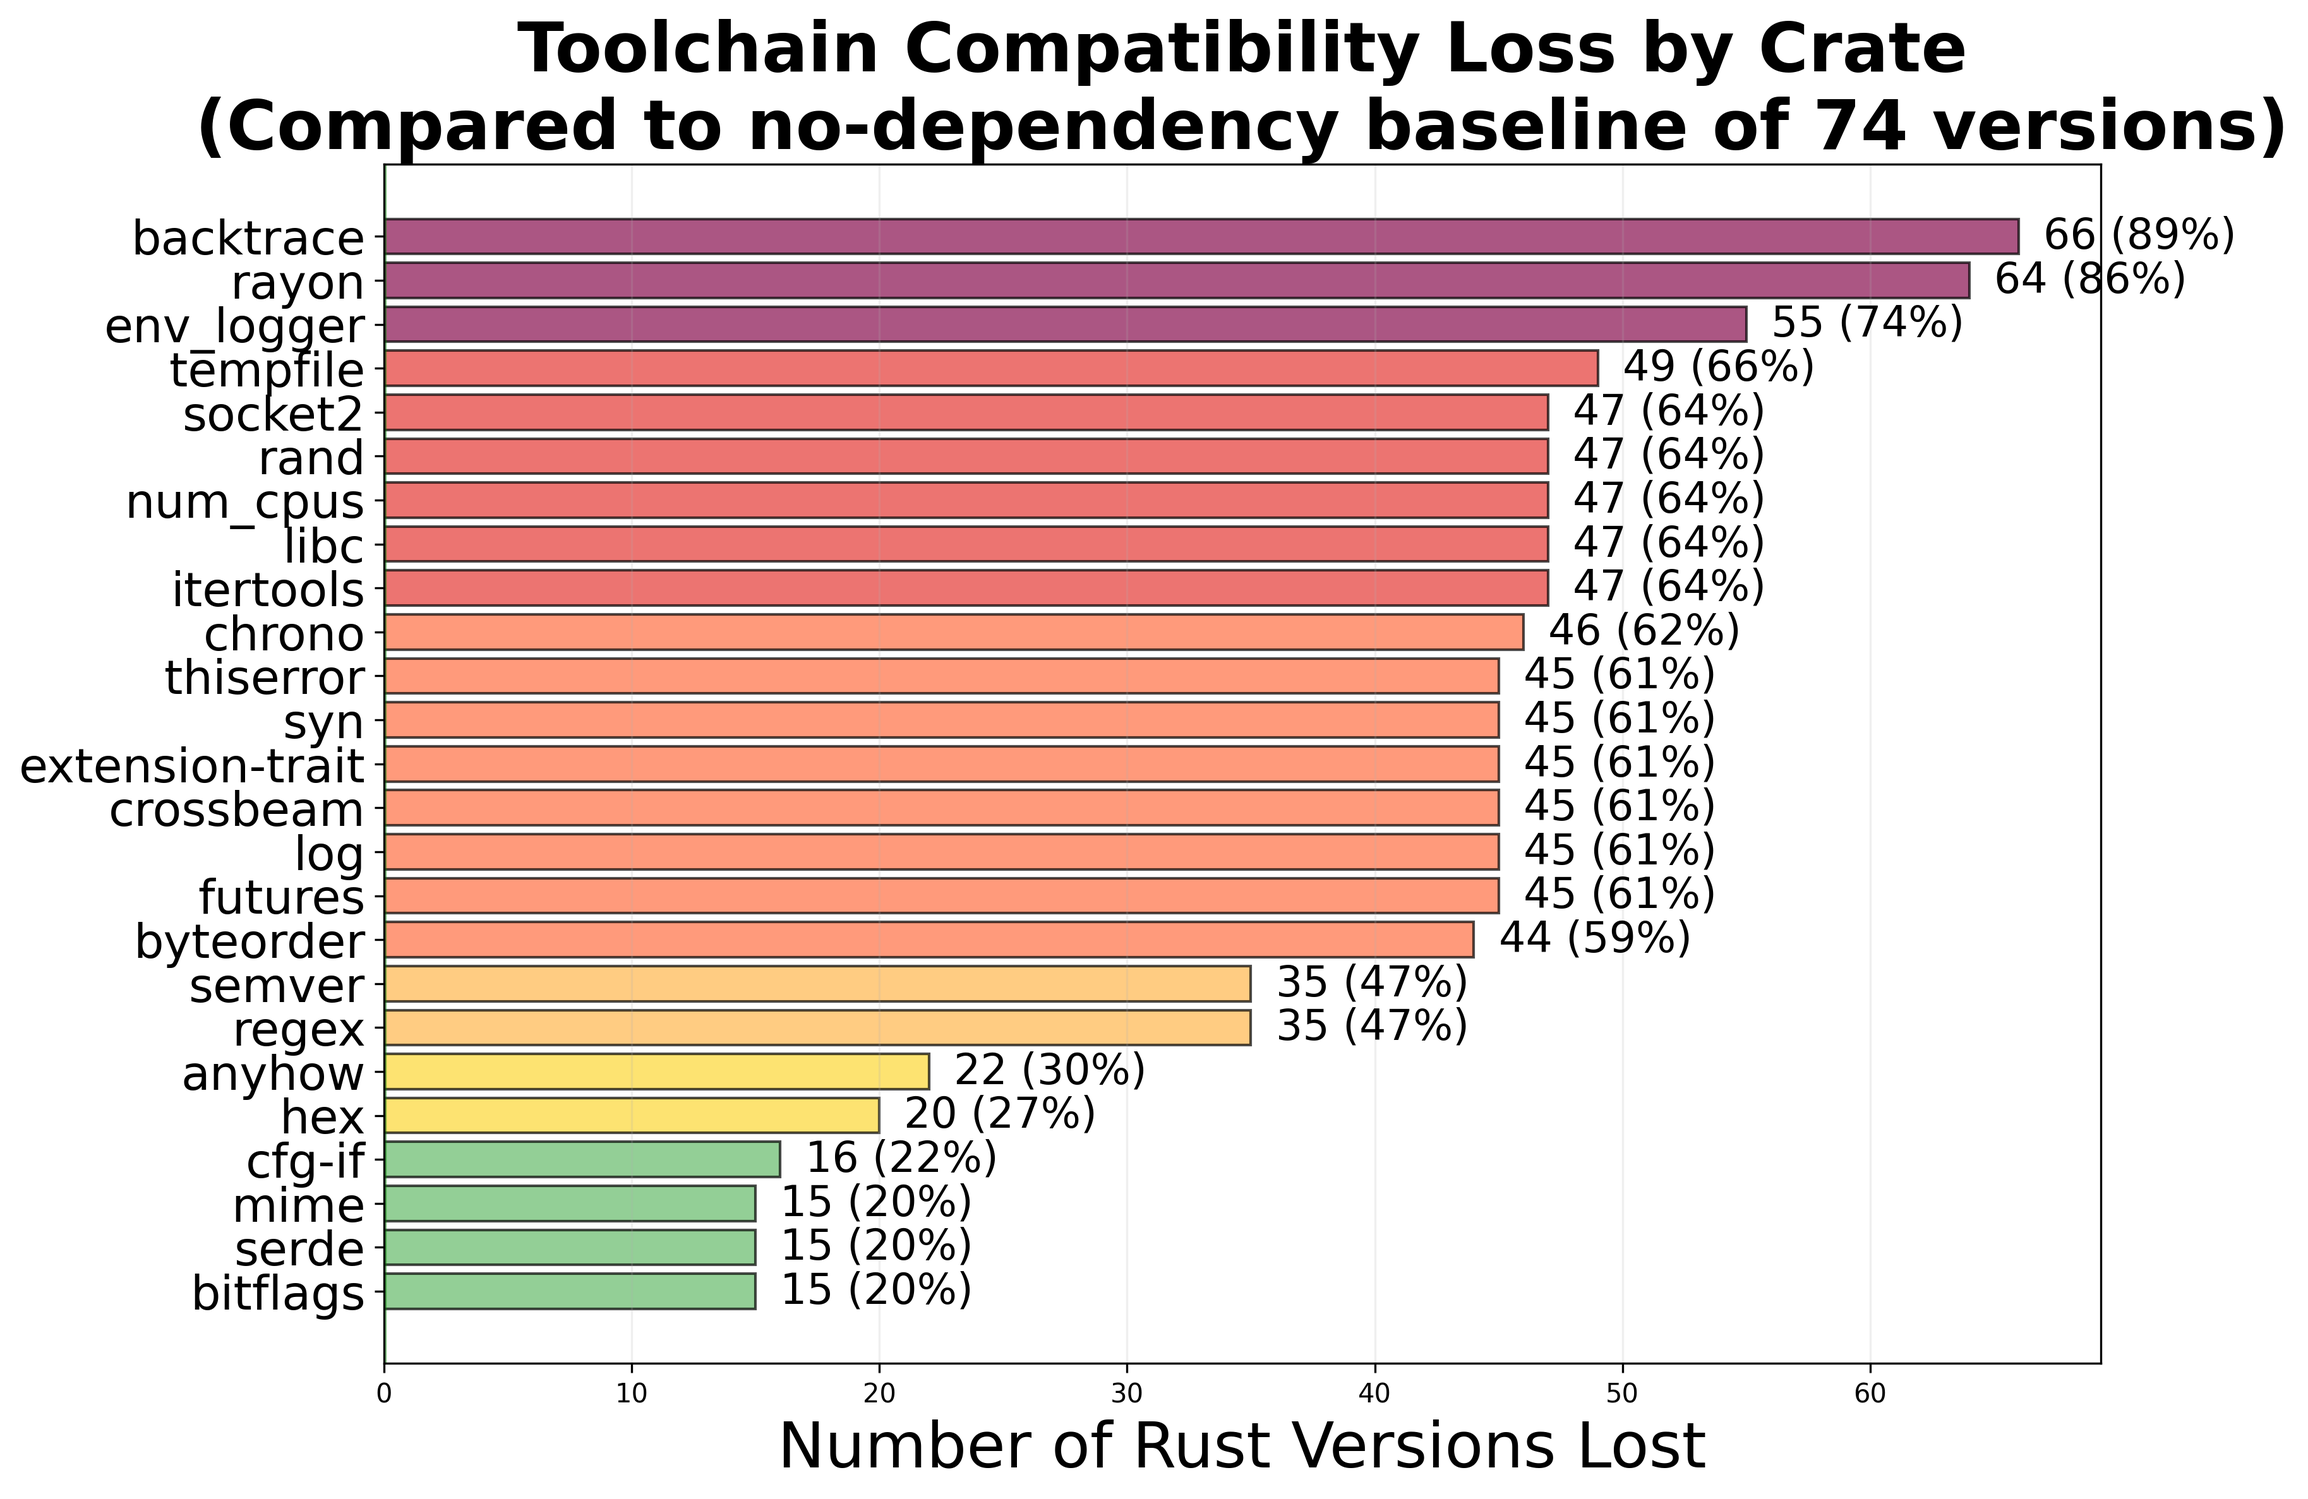
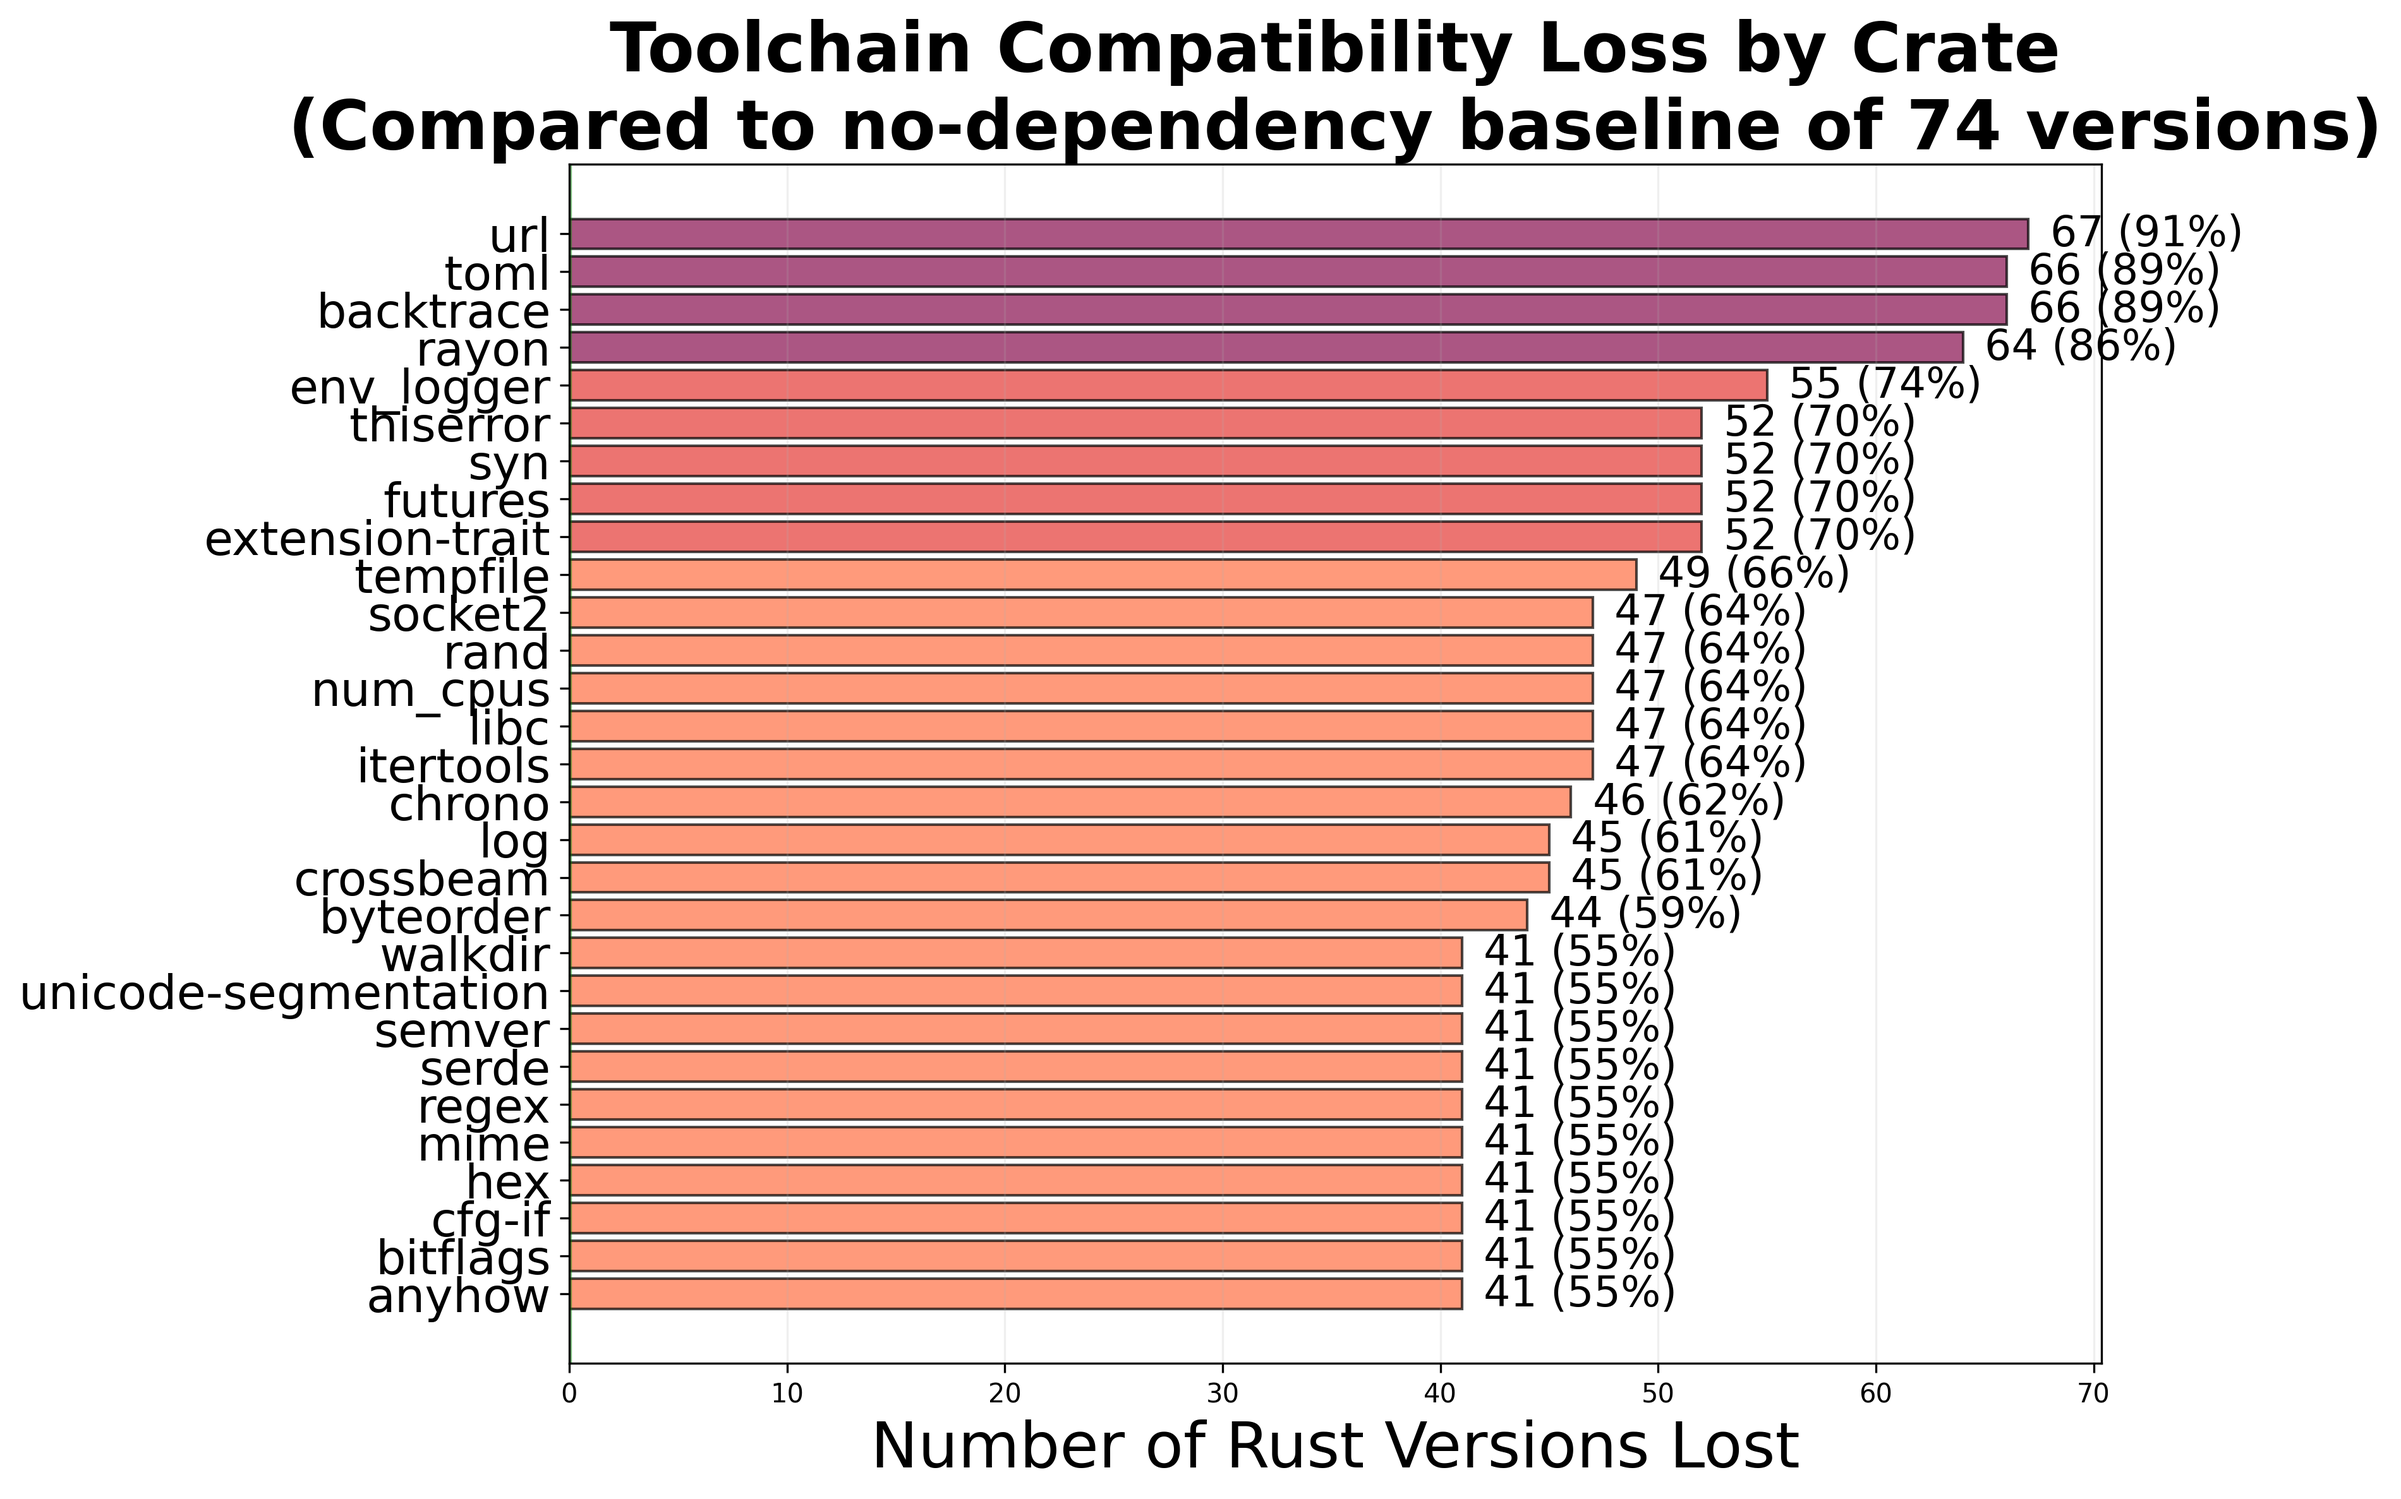
vis

diff --git a/visualize-rust.py b/visualize-rust.py
@@ -13,6 +13,7 @@ import matplotlib.pyplot as plt
 import matplotlib.patches as mpatches
 from datetime import datetime
 import numpy as np
+import json
 import sys
 
 # Check if we should show the plot window
@@ -21,39 +22,79 @@ show_plot = '--show' in sys.argv
 # Font scale factor: 2x for windowed display, 1x for PNG export
 fs = 2.0 if show_plot else 1.0
 
-# Data from experiment results
-crates_data = [
-    ("CONTROL", "1.16.0", "2017-03-16", 0, "baseline"),
-    ("bitflags", "1.31.1", "2018-12-20", 15, "minimal"),
-    ("serde", "1.31.1", "2018-12-20", 15, "minimal"),
-    ("mime", "1.31.1", "2018-12-20", 15, "minimal"),
-    ("cfg-if", "1.32.0", "2019-01-17", 16, "minimal"),
-    ("hex", "1.36.0", "2019-07-04", 20, "low"),
-    ("anyhow", "1.38.0", "2019-09-26", 22, "low"),
-    ("regex", "1.51.0", "2021-03-25", 35, "moderate"),
-    ("semver", "1.51.0", "2021-03-25", 35, "moderate"),
-    ("byteorder", "1.60.0", "2022-04-07", 44, "high"),
-    ("futures", "1.61.0", "2022-05-19", 45, "high"),
-    ("log", "1.61.0", "2022-05-19", 45, "high"),
-    ("crossbeam", "1.61.0", "2022-05-19", 45, "high"),
-    ("extension-trait", "1.61.0", "2022-05-19", 45, "high"),
-    ("syn", "1.61.0", "2022-05-19", 45, "high"),
-    ("thiserror", "1.61.0", "2022-05-19", 45, "high"),
-    ("chrono", "1.62.1", "2022-07-19", 46, "high"),
-    ("itertools", "1.63.0", "2022-08-11", 47, "severe"),
-    ("libc", "1.63.0", "2022-08-11", 47, "severe"),
-    ("num_cpus", "1.63.0", "2022-08-11", 47, "severe"),
-    ("rand", "1.63.0", "2022-08-11", 47, "severe"),
-    ("socket2", "1.63.0", "2022-08-11", 47, "severe"),
-    ("tempfile", "1.65.0", "2022-11-03", 49, "severe"),
-    ("env_logger", "1.71.1", "2023-08-03", 55, "extreme"),
-    ("rayon", "1.80.1", "2024-08-08", 64, "extreme"),
-    ("backtrace", "1.82.0", "2024-10-17", 66, "extreme"),
-]
+# Load results
+with open('rust/results.json', 'r') as f:
+    results = json.load(f)
 
-# Timeline boundaries
-baseline_date = datetime.strptime("2017-03-16", "%Y-%m-%d")
-latest_date = datetime.strptime("2024-12-01", "%Y-%m-%d")  # Approximate "now"
+# Rust version release dates (mapping version to date and index).
+rust_versions = {
+    '1.0.0': ('2015-05-15', 0),
+    '1.16.0': ('2017-03-16', 16),
+    '1.31.1': ('2018-12-20', 31),
+    '1.32.0': ('2019-01-17', 32),
+    '1.36.0': ('2019-07-04', 36),
+    '1.38.0': ('2019-09-26', 38),
+    '1.51.0': ('2021-03-25', 51),
+    '1.57.0': ('2021-12-02', 57),
+    '1.60.0': ('2022-04-07', 60),
+    '1.61.0': ('2022-05-19', 61),
+    '1.62.1': ('2022-07-19', 62),
+    '1.63.0': ('2022-08-11', 63),
+    '1.65.0': ('2022-11-03', 65),
+    '1.68.2': ('2023-03-28', 68),
+    '1.71.1': ('2023-08-03', 71),
+    '1.80.1': ('2024-08-08', 80),
+    '1.82.0': ('2024-10-17', 82),
+    '1.83.0': ('2024-11-28', 83),
+    '1.90.0': ('2024-12-01', 90),
+}
+
+# Baseline.
+baseline_version = '1.16.0'
+baseline_date = datetime.strptime(rust_versions[baseline_version][0], '%Y-%m-%d')
+latest_date = datetime.strptime(rust_versions['1.90.0'][0], '%Y-%m-%d')
+
+# Process data.
+crates_data = []
+for crate in results:
+    if crate['crate_name'] == 'CONTROL':
+        continue
+
+    oldest = crate['oldest_compatible']
+    if oldest is None:
+        # Crate doesn't work with any tested version.
+        continue
+
+    crate_date = datetime.strptime(rust_versions[oldest][0], '%Y-%m-%d')
+    versions_lost = rust_versions[oldest][1] - rust_versions[baseline_version][1]
+
+    # Categorize impact.
+    if versions_lost <= 5:
+        impact = 'minimal'
+    elif versions_lost <= 25:
+        impact = 'low'
+    elif versions_lost <= 40:
+        impact = 'moderate'
+    elif versions_lost <= 50:
+        impact = 'high'
+    elif versions_lost <= 60:
+        impact = 'severe'
+    else:
+        impact = 'extreme'
+
+    crates_data.append((
+        crate['crate_name'],
+        oldest,
+        rust_versions[oldest][0],
+        versions_lost,
+        impact
+    ))
+
+# Sort by versions lost.
+crates_data.sort(key=lambda x: x[3])
+
+# Calculate total versions in baseline range.
+baseline_total = rust_versions['1.90.0'][1] - rust_versions[baseline_version][1]
 
 # Color scheme based on impact
 color_map = {
@@ -99,7 +140,7 @@ for crate_name, rust_version, date_str, versions_lost, impact in crates_data:
 total_days = (latest_date - baseline_date).days
 ax1.set_xlim(0, total_days)
 ax1.set_ylim(-0.5, len(crates_data) - 0.5)
-ax1.set_xlabel('Time →', fontsize=int(12*fs))
+ax1.set_xlabel('Time', fontsize=int(12*fs))
 ax1.set_yticks([])
 
 # Add year markers
@@ -148,13 +189,12 @@ for bar, count in zip(bars, counts):
 
 # Create legend for impact levels
 legend_elements = [
-    mpatches.Patch(color=color_map["baseline"], label='Baseline (0% loss)', alpha=0.7),
-    mpatches.Patch(color=color_map["minimal"], label='Minimal (15-20% loss)', alpha=0.7),
-    mpatches.Patch(color=color_map["low"], label='Low (20-30% loss)', alpha=0.7),
-    mpatches.Patch(color=color_map["moderate"], label='Moderate (35-47% loss)', alpha=0.7),
-    mpatches.Patch(color=color_map["high"], label='High (44-62% loss)', alpha=0.7),
-    mpatches.Patch(color=color_map["severe"], label='Severe (47-66% loss)', alpha=0.7),
-    mpatches.Patch(color=color_map["extreme"], label='Extreme (74-89% loss)', alpha=0.7),
+    mpatches.Patch(color=color_map["minimal"], label='Minimal (<=5 versions lost)', alpha=0.7),
+    mpatches.Patch(color=color_map["low"], label='Low (6-25 versions lost)', alpha=0.7),
+    mpatches.Patch(color=color_map["moderate"], label='Moderate (26-40 versions lost)', alpha=0.7),
+    mpatches.Patch(color=color_map["high"], label='High (41-50 versions lost)', alpha=0.7),
+    mpatches.Patch(color=color_map["severe"], label='Severe (51-60 versions lost)', alpha=0.7),
+    mpatches.Patch(color=color_map["extreme"], label='Extreme (>60 versions lost)', alpha=0.7),
 ]
 ax1.legend(handles=legend_elements, loc='upper left', fontsize=int(8*fs), title='Impact Severity')
 
@@ -165,11 +205,10 @@ print("Visualization saved to compatibility-timeline-rust.png")
 # Create a second visualization: Lost versions chart
 fig2, ax = plt.subplots(figsize=(12, 8))
 
-# Sort by versions lost
-sorted_data = sorted(crates_data[1:], key=lambda x: x[3])  # Skip baseline
-crate_names = [d[0] for d in sorted_data]
-versions_lost = [d[3] for d in sorted_data]
-impacts = [d[4] for d in sorted_data]
+# Use the already sorted crates_data (CONTROL was already filtered out).
+crate_names = [d[0] for d in crates_data]
+versions_lost = [d[3] for d in crates_data]
+impacts = [d[4] for d in crates_data]
 colors_sorted = [color_map[imp] for imp in impacts]
 
 # Create horizontal bar chart
@@ -179,13 +218,13 @@ bars = ax.barh(range(len(crate_names)), versions_lost, color=colors_sorted,
 ax.set_yticks(range(len(crate_names)))
 ax.set_yticklabels(crate_names, fontsize=int(9*fs))
 ax.set_xlabel('Number of Rust Versions Lost', fontsize=int(12*fs))
-ax.set_title('Toolchain Compatibility Loss by Crate\n(Compared to no-dependency baseline of 74 versions)',
+ax.set_title(f'Toolchain Compatibility Loss by Crate\n(Compared to no-dependency baseline of {baseline_total} versions)',
              fontsize=int(13*fs), fontweight='bold')
 ax.grid(axis='x', alpha=0.2)
 
 # Add percentage labels
 for i, (bar, lost) in enumerate(zip(bars, versions_lost)):
-    percentage = (lost / 74) * 100
+    percentage = (lost / baseline_total) * 100
     ax.text(bar.get_width() + 1, bar.get_y() + bar.get_height()/2,
             f'{int(lost)} ({percentage:.0f}%)',
             ha='left', va='center', fontsize=int(8*fs))
